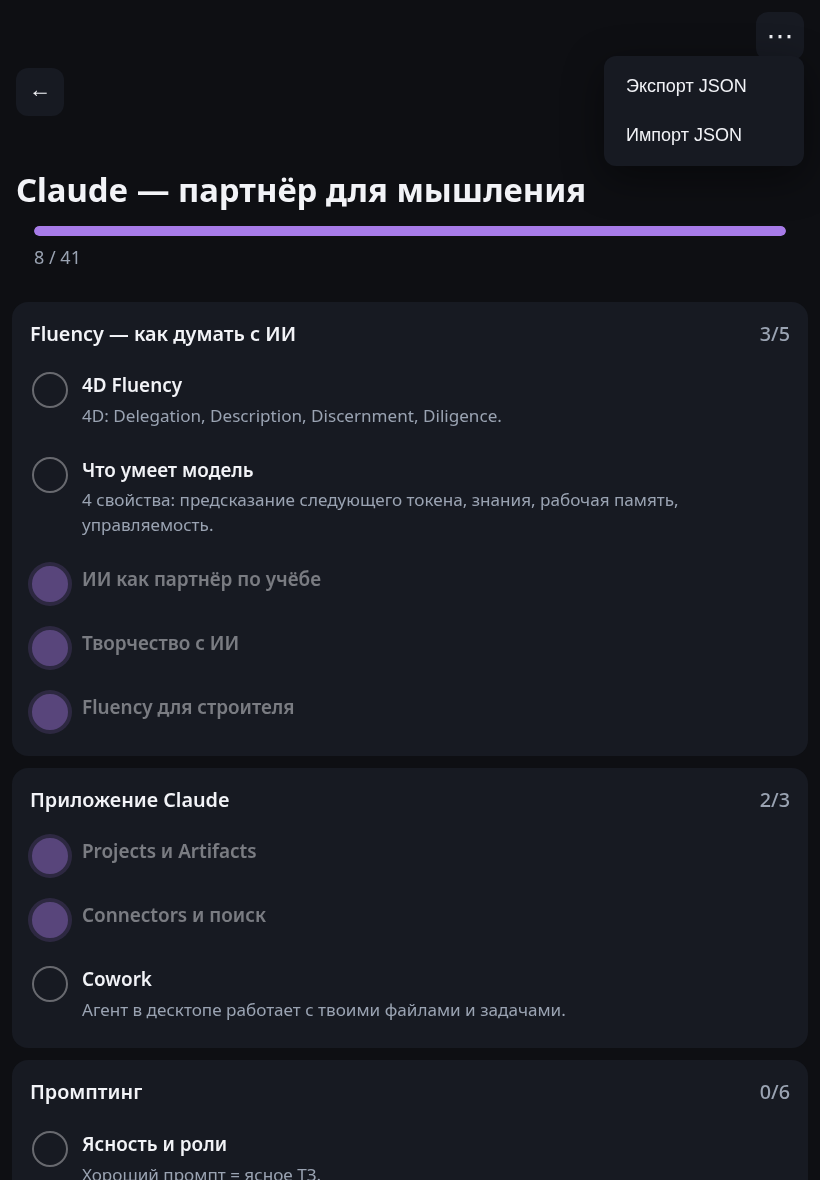
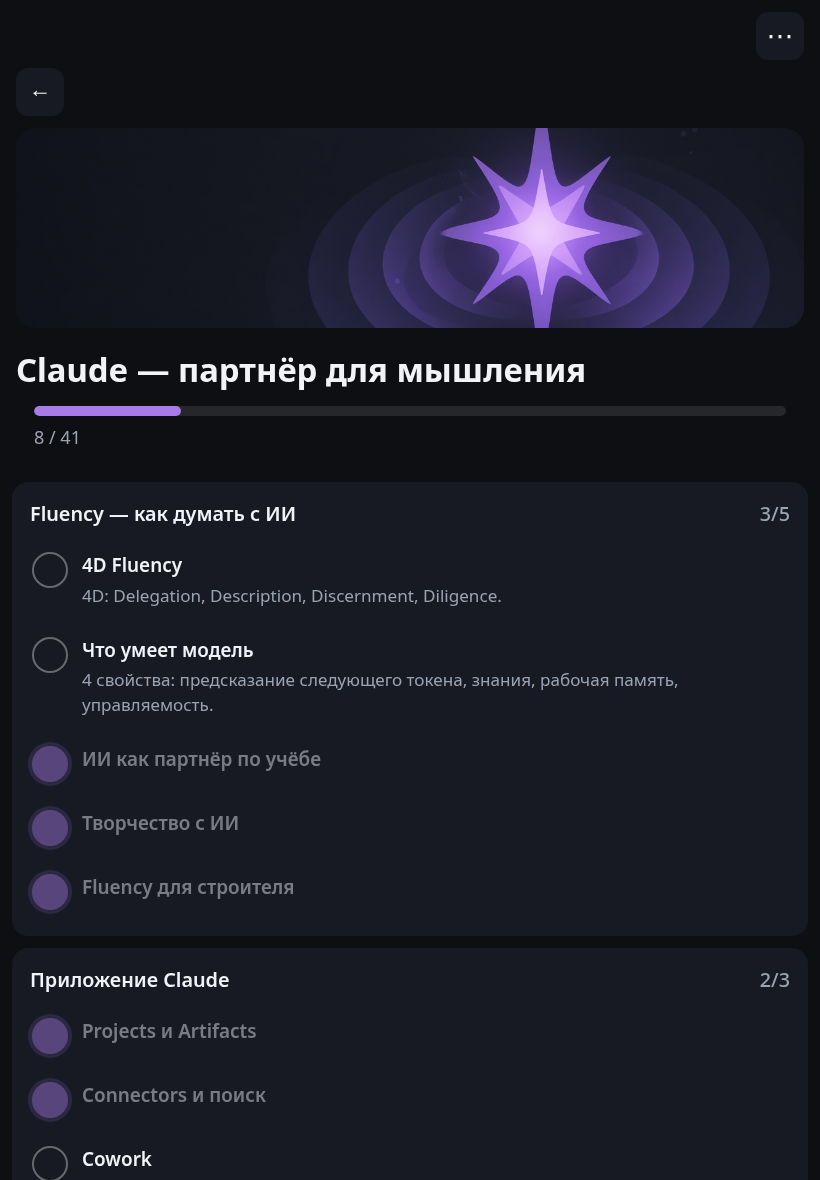
fix: CSP-safe dynamic styles, course images, menu toggle; screenshots

diff --git a/src/ui/views/course-view.ts b/src/ui/views/course-view.ts
@@ -1,6 +1,6 @@
 import { resolveCourseImage } from '../../course/bundled';
 import type { Course, Module } from '../../course/types';
-import { h } from '../../lib/dom';
+import { h, setCourseColor, setProgressPct } from '../../lib/dom';
 import { countCourseProgress, countModuleProgress, isModuleComplete } from '../../progress/math';
 import type { TrackerStore } from '../../store/tracker-store';
 import { burstConfetti } from '../confetti';
@@ -18,23 +18,23 @@ export function renderCourseView(
   const pct = total === 0 ? 0 : (done / total) * 100;
   const imgSrc = resolveCourseImage(course.image);
 
-  const header = h('header', { class: 'course-header', style: `--course-color: ${course.color}` }, [
+  const fill = h('div', {
+    class: 'progress__fill progress__fill--animated',
+    'data-progress': String(pct),
+  });
+  setProgressPct(fill, pct);
+  const header = h('header', { class: 'course-header' }, [
     h('button', { class: 'back-btn', type: 'button', 'aria-label': 'Назад' }, ['←']),
     h('div', { class: 'course-header__main' }, [
       imgSrc ? h('img', { class: 'course-header__img', src: imgSrc, alt: '' }) : null,
       h('h1', { class: 'course-header__title' }, [course.title]),
       h('div', { class: 'progress progress--header' }, [
-        h('div', { class: 'progress__track' }, [
-          h('div', {
-            class: 'progress__fill progress__fill--animated',
-            'data-progress': String(pct),
-            style: `width: ${String(pct)}%`,
-          }),
-        ]),
+        h('div', { class: 'progress__track' }, [fill]),
         h('span', { class: 'progress__label' }, [`${String(done)} / ${String(total)}`]),
       ]),
     ]),
   ]);
+  setCourseColor(header, course.color);
 
   header.querySelector('.back-btn')?.addEventListener('click', () => {
     navigate({ name: 'home' });

diff --git a/src/ui/views/home.ts b/src/ui/views/home.ts
@@ -1,6 +1,6 @@
 import type { Course } from '../../course/types';
 import { resolveCourseImage } from '../../course/bundled';
-import { h } from '../../lib/dom';
+import { h, setCourseColor, setProgressPct } from '../../lib/dom';
 import { countCourseProgress } from '../../progress/math';
 import { navigate } from '../router';
 
@@ -22,6 +22,8 @@ function courseCard(course: Course, doneIds: ReadonlySet<string>): HTMLElement {
   const { done, total } = countCourseProgress(course, doneIds);
   const pct = total === 0 ? 0 : Math.round((done / total) * 100);
   const imgSrc = resolveCourseImage(course.image);
+  const fill = h('div', { class: 'progress__fill' });
+  setProgressPct(fill, pct);
   const card = h(
     'button',
     {
@@ -29,7 +31,6 @@ function courseCard(course: Course, doneIds: ReadonlySet<string>): HTMLElement {
       type: 'button',
       role: 'listitem',
       'data-course-id': course.id,
-      style: `--course-color: ${course.color}`,
     },
     [
       h('div', { class: 'course-card__media' }, [
@@ -39,16 +40,12 @@ function courseCard(course: Course, doneIds: ReadonlySet<string>): HTMLElement {
       ]),
       h('h2', { class: 'course-card__title' }, [course.title]),
       h('div', { class: 'progress' }, [
-        h('div', { class: 'progress__track' }, [
-          h('div', {
-            class: 'progress__fill',
-            style: `width: ${String(pct)}%`,
-          }),
-        ]),
+        h('div', { class: 'progress__track' }, [fill]),
         h('span', { class: 'progress__label' }, [`${String(done)} / ${String(total)}`]),
       ]),
     ],
   );
+  setCourseColor(card, course.color);
   card.addEventListener('click', () => {
     navigate({ name: 'course', courseId: course.id });
   });

diff --git a/src/course/bundled.ts b/src/course/bundled.ts
@@ -31,7 +31,17 @@ function resolveImages(course: Course): Course {
 
 export function resolveCourseImage(image: string): string {
   if (!image) return '';
-  if (image.startsWith('data:') || image.startsWith('http://') || image.startsWith('https://')) {
+  const base = import.meta.env.BASE_URL;
+  if (
+    image.startsWith(base) ||
+    image.startsWith('data:') ||
+    image.startsWith('blob:') ||
+    image.startsWith('http://') ||
+    image.startsWith('https://')
+  ) {
+    return image;
+  }
+  if (image.startsWith('/') && !image.startsWith('images/')) {
     return image;
   }
   if (image.trimStart().startsWith('<svg')) {
@@ -44,8 +54,8 @@ export function resolveCourseImage(image: string): string {
       .pop() ?? image;
   const bundled = imageByBasename.get(name);
   if (bundled) return bundled;
-  const base = import.meta.env.BASE_URL;
-  return `${base}courses/${image.replace(/^\//, '')}`;
+  const rel = image.replace(/^\//, '').replace(/^images\//, '');
+  return `${base}courses/images/${rel}`;
 }
 
 const BUILTIN: Course[] = [

diff --git a/src/lib/dom.ts b/src/lib/dom.ts
@@ -15,6 +15,11 @@ export function h<K extends keyof HTMLElementTagNameMap>(
   for (const [name, value] of Object.entries(attrs)) {
     if (value === false || value === null || value === undefined) continue;
     if (/^on/i.test(name)) throw new Error(`Event handler attributes are not allowed: ${name}`);
+    if (name === 'style') {
+      throw new Error(
+        'Inline style attributes are not allowed; use style.setProperty on the element',
+      );
+    }
     el.setAttribute(name, value === true ? '' : String(value));
   }
   for (const child of children) {
@@ -26,4 +31,12 @@ export function h<K extends keyof HTMLElementTagNameMap>(
 
 export function clear(el: Element): void {
   el.replaceChildren();
+}
+
+export function setProgressPct(el: HTMLElement, pct: number): void {
+  el.style.setProperty('--progress', String(pct));
+}
+
+export function setCourseColor(el: HTMLElement, color: string): void {
+  el.style.setProperty('--course-color', color);
 }

diff --git a/src/ui/app.ts b/src/ui/app.ts
@@ -46,12 +46,20 @@ export function mountApp(root: HTMLElement, deps: AppDeps): void {
     menuBtn.setAttribute('aria-expanded', open ? 'true' : 'false');
   };
 
-  menuBtn.addEventListener('click', () => {
+  menuBtn.addEventListener('click', (e) => {
+    e.stopPropagation();
     toggleMenu(menuPanel.hasAttribute('hidden'));
   });
 
   document.addEventListener('click', (e) => {
-    if (!menuPanel.hidden && !menuPanel.contains(e.target as Node) && e.target !== menuBtn) {
+    const target = e.target as Node;
+    if (!menuPanel.hidden && !menuPanel.contains(target) && !menuBtn.contains(target)) {
+      toggleMenu(false);
+    }
+  });
+
+  document.addEventListener('keydown', (e) => {
+    if (e.key === 'Escape' && !menuPanel.hidden) {
       toggleMenu(false);
     }
   });

diff --git a/src/ui/styles.css b/src/ui/styles.css
@@ -91,6 +91,10 @@ body.flash-done {
   box-shadow: 0 12px 40px rgb(0 0 0 / 45%);
 }
 
+.menu-panel[hidden] {
+  display: none;
+}
+
 .menu-item {
   text-align: left;
   padding: 12px 14px;
@@ -127,7 +131,13 @@ body.flash-done {
   overflow-x: auto;
   scroll-snap-type: x mandatory;
   padding: 8px 20px 24px;
+  scroll-padding-inline: 20px;
   -webkit-overflow-scrolling: touch;
+}
+
+.carousel::after {
+  content: '';
+  flex: 0 0 4px;
 }
 
 .course-card {
@@ -193,6 +203,7 @@ body.flash-done {
 
 .progress__fill {
   height: 100%;
+  width: calc(var(--progress, 0) * 1%);
   border-radius: inherit;
   background: var(--course-color, #6b7cff);
   transition: width 0.45s ease;

diff --git a/src/lib/dom.test.ts b/src/lib/dom.test.ts
@@ -26,4 +26,8 @@ describe('h', () => {
   it('rejects inline event handler attributes', () => {
     expect(() => h('div', { onclick: 'x()' })).toThrow();
   });
+
+  it('rejects inline style attributes', () => {
+    expect(() => h('div', { style: 'color: red' })).toThrow();
+  });
 });

diff --git a/vite.config.ts b/vite.config.ts
@@ -9,7 +9,7 @@ export const CSP = [
   "script-src 'self'",
   "style-src 'self'",
   "font-src 'self'",
-  "img-src 'self' data: blob:",
+  "img-src 'self' data: blob: https:",
   "connect-src 'self'",
   "manifest-src 'self'",
   "worker-src 'self'",

diff --git a/STATUS.md b/STATUS.md
@@ -1,3 +1,5 @@
 # STATUS
 - 2026-10-12 20:30 run 05-tracker started (full tracker build via cursor-agent)
 - Next: verify, commit, create repo, push, Pages, screenshots
+- 20:45 commit 32f50ae tracker built; run 06-fix started (CSP inline styles, images, menu)
+- 20:58 06-fix green (CSP, images, menu); pushing + Pages
